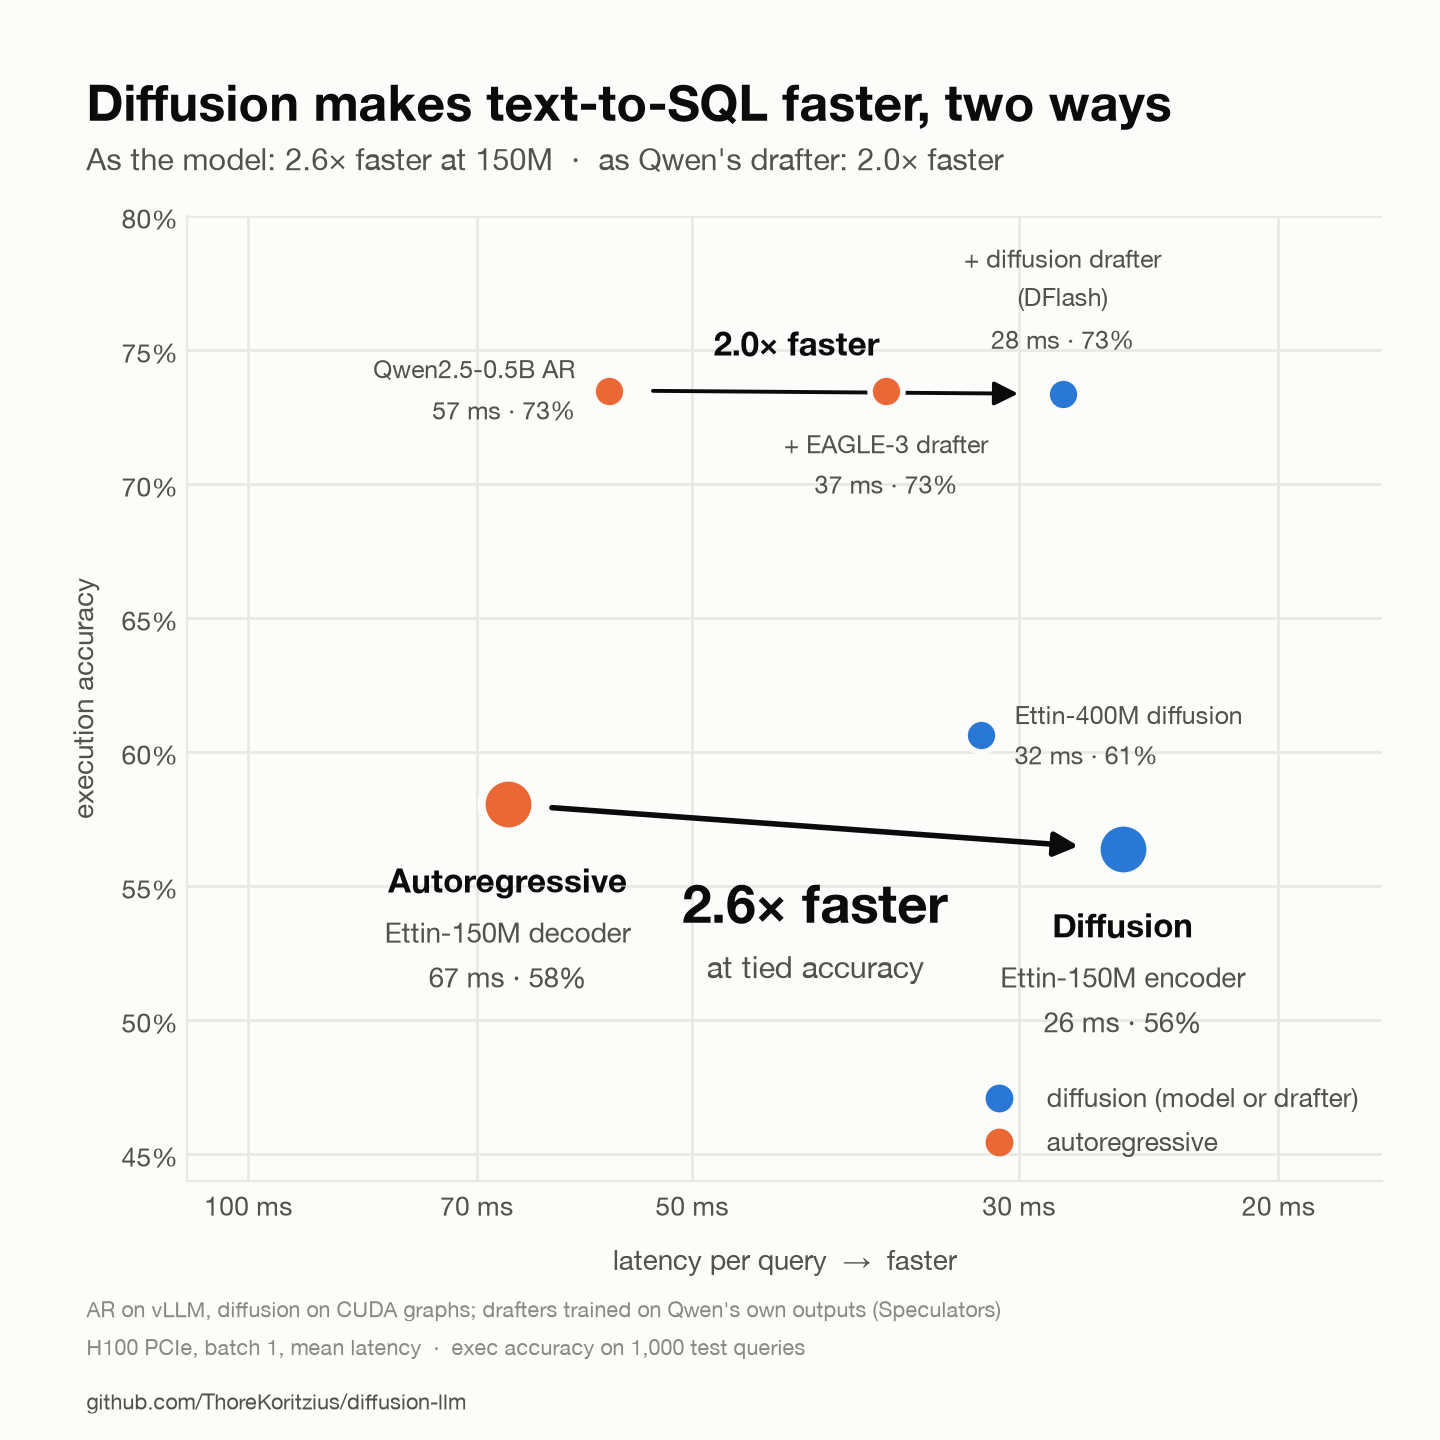
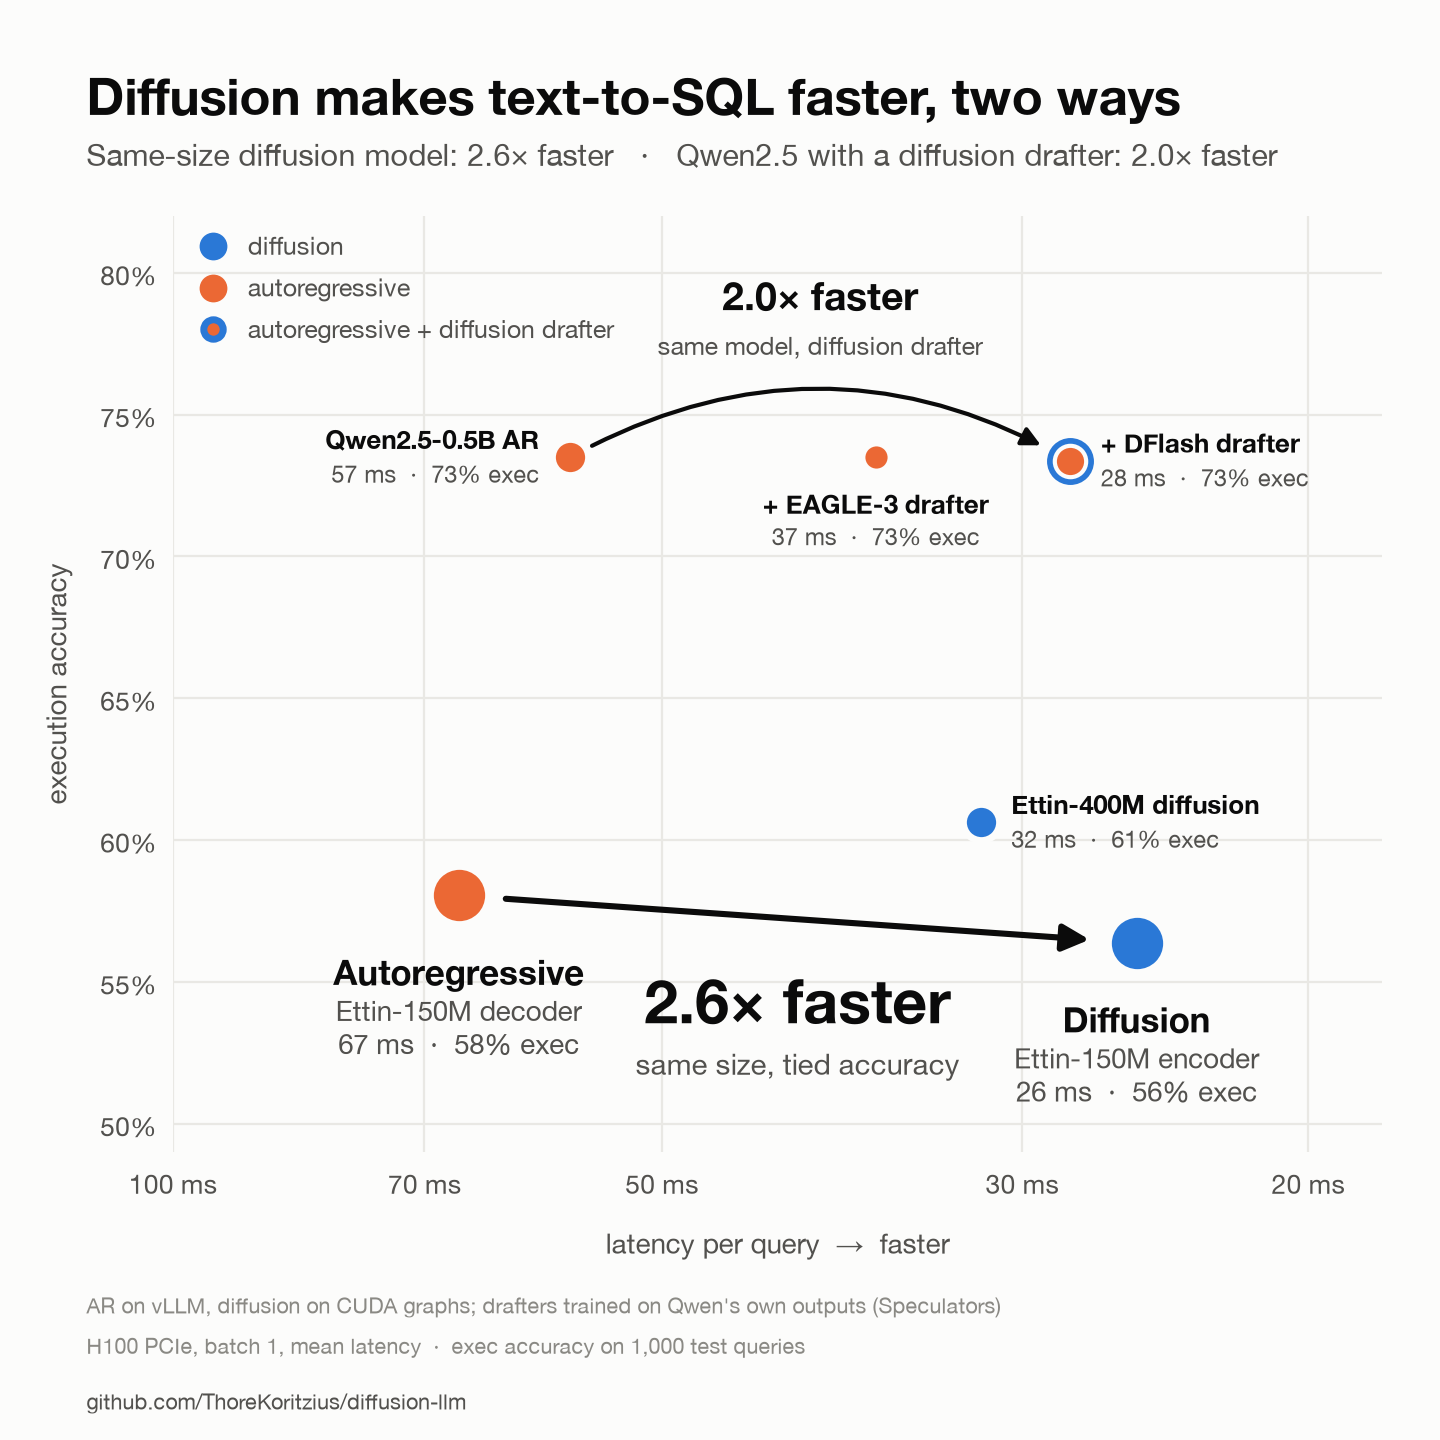
hero chart: label hierarchy, drafter marker, curved Qwen arrow, clearer subtitle
Claude-Session: https://claude.ai/code/session_01G6Bm8s1uyizXtz9t5ZCZAw

diff --git a/experiments/2026-10-14_gpu-session-2/make_hero.py b/experiments/2026-10-14_gpu-session-2/make_hero.py
@@ -23,15 +23,9 @@ from make_headline_chart import COLOR, GRID, INK, INK_2, MUTED, SURFACE  # noqa:
 HERO_AR, HERO_DIFF = "ettin150-ar-10ep-vllm-pr61276", "ettin150-diffusion-iso-10ep-distilled-bf16-cudagraphs"
 HERO = [("Autoregressive", "Ettin-150M decoder", "ar", HERO_AR),
         ("Diffusion", "Ettin-150M encoder", "diffusion", HERO_DIFF)]
-QWEN, QWEN_DFLASH = "sql-ar-qwen25-coder-0.5b-ar-vllm", "sql-ar-qwen25-coder-0.5b-ar-vllm-dflash"
-# (label, arm, summary, label offset (dx, dy, ha, va))
-CONTEXT = [
-    ("Qwen2.5-0.5B AR", "ar", QWEN, (-12, 0, "right", "center")),
-    ("+ EAGLE-3 drafter", "ar", "sql-ar-qwen25-coder-0.5b-ar-vllm-eagle3", (0, -12, "center", "top")),
-    ("+ diffusion drafter\n(DFlash)", "diffusion", QWEN_DFLASH, (0, 12, "center", "bottom")),
-    ("Ettin-400M diffusion", "diffusion", "ettin400-diffusion-iso-10ep-distilled-bf16-cudagraphs",
-     (12, 0, "left", "center")),
-]
+QWEN, EAGLE, DFLASH = ("sql-ar-qwen25-coder-0.5b-ar-vllm", "sql-ar-qwen25-coder-0.5b-ar-vllm-eagle3",
+                       "sql-ar-qwen25-coder-0.5b-ar-vllm-dflash")
+DIFF_400 = "ettin400-diffusion-iso-10ep-distilled-bf16-cudagraphs"
 REPO = "github.com/ThoreKoritzius/diffusion-llm"
 LEFT_X = 0.06  # shared left edge of title, subtitle and footer
 
@@ -41,9 +35,36 @@ def point(name):
     return r["lat_mean_ms"], r["exec"] * 100
 
 
-def arrow(ax, a, b, lw):
-    ax.annotate("", xy=b, xytext=a, zorder=2,
-                arrowprops=dict(arrowstyle="-|>", color=INK, lw=lw, shrinkA=16, shrinkB=16, mutation_scale=18))
+def label(ax, xy, name, metrics, where, big=False):
+    """Model name (bold, ink) over its numbers (regular, secondary ink), placed beside the marker."""
+    fs, fs2 = (12.5, 10) if big else (9.5, 8.5)
+    pad = 20 if big else 11
+    step = fs + 3  # points between the two lines
+    if where in ("above", "below"):
+        sign, va = (1, "bottom") if where == "above" else (-1, "top")
+        first, second = ((0, pad + step), (0, pad)) if where == "above" else ((0, -pad), (0, -pad - step))
+        place = [(name, first, "center", va), (metrics, second, "center", va)]
+    else:
+        dx, ha = (pad, "left") if where == "right" else (-pad, "right")
+        place = [(name, (dx, 1), ha, "bottom"), (metrics, (dx, -1), ha, "top")]
+    for (text, off, ha, va), (size, weight, color) in zip(place, [(fs, "bold", INK), (fs2, "normal", INK_2)]):
+        ax.annotate(text, xy, xytext=off, textcoords="offset points", ha=ha, va=va, fontsize=size,
+                    fontweight=weight, color=color)
+
+
+def metrics(name):
+    x, y = point(name)
+    return f"{x:.0f} ms  ·  {y:.0f}% exec"
+
+
+def dot(ax, name, color, size, ring=None):
+    x, y = point(name)
+    if ring:  # an AR model with a diffusion drafter: AR fill inside a diffusion ring
+        ax.scatter(x, y, s=size * 2.1, color=ring, edgecolor=SURFACE, linewidth=2, zorder=3)
+        ax.scatter(x, y, s=size * 0.75, color=color, edgecolor=SURFACE, linewidth=1.5, zorder=4)
+    else:
+        ax.scatter(x, y, s=size, color=color, edgecolor=SURFACE, linewidth=2.5, zorder=4)
+    return x, y
 
 
 def main():
@@ -51,62 +72,69 @@ def main():
     fig, ax = plt.subplots(figsize=(7.2, 7.2), facecolor=SURFACE)
     ax.set_facecolor(SURFACE)
     ax.set_xscale("log")
-    ax.set_xlim(110, 17)  # reversed: faster to the right, so up-and-right is better
-    ax.set_ylim(44, 80)
+    ax.set_xlim(100, 18)  # reversed: faster to the right, so up-and-right is better
+    ax.set_ylim(49, 82)
 
-    for label, arm, name, (dx, dy, ha, va) in CONTEXT:
-        x, y = point(name)
-        ax.scatter(x, y, s=140, color=COLOR[arm], edgecolor=SURFACE, linewidth=2, zorder=3)
-        ax.annotate(f"{label}\n{x:.0f} ms · {y:.0f}%", (x, y), xytext=(dx, dy), textcoords="offset points",
-                    ha=ha, va=va, fontsize=9, color=INK_2, linespacing=1.4)
+    # Qwen2.5-0.5B: plain -> EAGLE-3 -> diffusion drafter (same model, same outputs up to bf16 near-ties)
+    xq, yq = dot(ax, QWEN, COLOR["ar"], 170)
+    dot(ax, EAGLE, COLOR["ar"], 110)
+    xf, yf = dot(ax, DFLASH, COLOR["ar"], 170, ring=COLOR["diffusion"])
+    ax.annotate("", xy=(xf, yf), xytext=(xq, yq), zorder=2, arrowprops=dict(
+        arrowstyle="-|>", color=INK, lw=1.5, shrinkA=9, shrinkB=12, mutation_scale=14,
+        connectionstyle="arc3,rad=-0.28"))
+    ax.annotate(f"{xq / xf:.1f}× faster", ((xq * xf) ** 0.5, yq), xytext=(0, 50), textcoords="offset points",
+                ha="center", va="bottom", fontsize=14, fontweight="bold", color=INK)
+    ax.annotate("same model, diffusion drafter", ((xq * xf) ** 0.5, yq), xytext=(0, 35),
+                textcoords="offset points", ha="center", va="bottom", fontsize=9, color=INK_2)
+    label(ax, (xq, yq), "Qwen2.5-0.5B AR", metrics(QWEN), "left")
+    label(ax, point(EAGLE), "+ EAGLE-3 drafter", metrics(EAGLE), "below")
+    label(ax, (xf, yf), "+ DFlash drafter", metrics(DFLASH), "right")
 
-    (xq, yq), (xf, yf) = point(QWEN), point(QWEN_DFLASH)
-    arrow(ax, (xq, yq), (xf, yf), 1.4)
-    ax.annotate(f"{xq / xf:.1f}× faster", ((xq * xf) ** 0.5, yq), xytext=(-14, 10), textcoords="offset points",
-                ha="center", va="bottom", fontsize=12, fontweight="bold", color=INK)
+    dot(ax, DIFF_400, COLOR["diffusion"], 170)
+    label(ax, point(DIFF_400), "Ettin-400M diffusion", metrics(DIFF_400), "right")
 
+    # the matched pair
     (xa, ya), (xd, yd) = point(HERO_AR), point(HERO_DIFF)
-    arrow(ax, (xa, ya), (xd, yd), 2)
+    ax.annotate("", xy=(xd, yd), xytext=(xa, ya), zorder=2, arrowprops=dict(
+        arrowstyle="-|>", color=INK, lw=2.2, shrinkA=17, shrinkB=17, mutation_scale=20))
     mid = ((xa * xd) ** 0.5, (ya + yd) / 2)
     ax.annotate(f"{xa / xd:.1f}× faster", mid, xytext=(0, -16), textcoords="offset points", ha="center",
-                va="top", fontsize=19, fontweight="bold", color=INK)
-    ax.annotate("at tied accuracy", mid, xytext=(0, -44), textcoords="offset points", ha="center",
-                va="top", fontsize=11, color=INK_2)
-
-    for label, model, arm, name in HERO:
-        x, y = point(name)
-        ax.scatter(x, y, s=380, color=COLOR[arm], edgecolor=SURFACE, linewidth=3, zorder=4)
-        ax.annotate(label, (x, y), xytext=(0, -20), textcoords="offset points", ha="center", va="top",
-                    fontsize=12, fontweight="bold", color=INK)
-        ax.annotate(f"{model}\n{x:.0f} ms · {y:.0f}%", (x, y), xytext=(0, -38), textcoords="offset points",
-                    ha="center", va="top", fontsize=10, color=INK_2, linespacing=1.4)
+                va="top", fontsize=22, fontweight="bold", color=INK)
+    ax.annotate("same size, tied accuracy", mid, xytext=(0, -46), textcoords="offset points", ha="center",
+                va="top", fontsize=10.5, color=INK_2)
+    for title, model, arm, name in HERO:
+        dot(ax, name, COLOR[arm], 440)
+        label(ax, point(name), title, f"{model}\n{metrics(name)}", "below", big=True)
 
     ax.set_xticks([100, 70, 50, 30, 20])
     ax.xaxis.set_major_formatter(matplotlib.ticker.FuncFormatter(lambda v, _: f"{v:g} ms"))
     ax.xaxis.set_minor_formatter(matplotlib.ticker.NullFormatter())
     ax.yaxis.set_major_formatter(matplotlib.ticker.FuncFormatter(lambda v, _: f"{v:.0f}%"))
-    ax.set_xlabel("latency per query  →  faster", fontsize=10, color=INK_2, labelpad=8)
-    ax.set_ylabel("execution accuracy", fontsize=10, color=INK_2, labelpad=8)
-    ax.grid(True, which="major", color=GRID, linewidth=1)
-    for side in ("top", "right"):
+    ax.set_xlabel("latency per query  →  faster", fontsize=10, color=INK_2, labelpad=10)
+    ax.set_ylabel("execution accuracy", fontsize=10, color=INK_2, labelpad=10)
+    ax.grid(True, which="major", color=GRID, linewidth=0.8)
+    ax.set_axisbelow(True)
+    for side in ("top", "right", "left", "bottom"):
         ax.spines[side].set_visible(False)
-    for side in ("left", "bottom"):
-        ax.spines[side].set_color(GRID)
-    ax.tick_params(colors=INK_2, labelsize=9.5, length=0, which="both")
+    ax.tick_params(colors=INK_2, labelsize=9.5, length=0, which="both", pad=6)
     handles = [plt.Line2D([], [], marker="o", linestyle="", markersize=9, color=COLOR["diffusion"],
-                          label="diffusion (model or drafter)"),
-               plt.Line2D([], [], marker="o", linestyle="", markersize=9, color=COLOR["ar"], label="autoregressive")]
-    ax.legend(handles=handles, loc="lower right", frameon=False, fontsize=9.5, labelcolor=INK_2)
+                          label="diffusion"),
+               plt.Line2D([], [], marker="o", linestyle="", markersize=9, color=COLOR["ar"], label="autoregressive"),
+               plt.Line2D([], [], marker="o", linestyle="", markersize=7, markerfacecolor=COLOR["ar"],
+                          markeredgecolor=COLOR["diffusion"], markeredgewidth=2.5,
+                          label="autoregressive + diffusion drafter")]
+    ax.legend(handles=handles, loc="upper left", frameon=False, fontsize=9, labelcolor=INK_2, handletextpad=0.4,
+              borderaxespad=0.2)
 
-    fig.text(LEFT_X, 0.95, "Diffusion makes text-to-SQL faster, two ways", fontsize=18, fontweight="bold",
+    fig.text(LEFT_X, 0.955, "Diffusion makes text-to-SQL faster, two ways", fontsize=18.5, fontweight="bold",
              color=INK, va="top")
-    fig.text(LEFT_X, 0.902, f"As the model: {xa / xd:.1f}× faster at 150M  ·  as Qwen's drafter: {xq / xf:.1f}× faster",
+    fig.text(LEFT_X, 0.905, f"Same-size diffusion model: {xa / xd:.1f}× faster   ·   Qwen2.5 with a diffusion drafter: {xq / xf:.1f}× faster",
              fontsize=11, color=INK_2, va="top")
     fig.text(LEFT_X, 0.05, "AR on vLLM, diffusion on CUDA graphs; drafters trained on Qwen's own outputs (Speculators)\n"
              "H100 PCIe, batch 1, mean latency  ·  exec accuracy on 1,000 test queries", fontsize=7.8, color=MUTED,
-             va="bottom", linespacing=1.5)
+             va="bottom", linespacing=1.6)
     fig.text(LEFT_X, 0.018, REPO, fontsize=7.8, color=INK_2, va="bottom")
-    fig.subplots_adjust(left=0.13, right=0.96, bottom=0.18, top=0.85)
+    fig.subplots_adjust(left=0.12, right=0.96, bottom=0.2, top=0.85)
     out = os.path.join(HERE, "plots", "hero.png")
     fig.savefig(out, dpi=200, facecolor=SURFACE)
     print(out)
